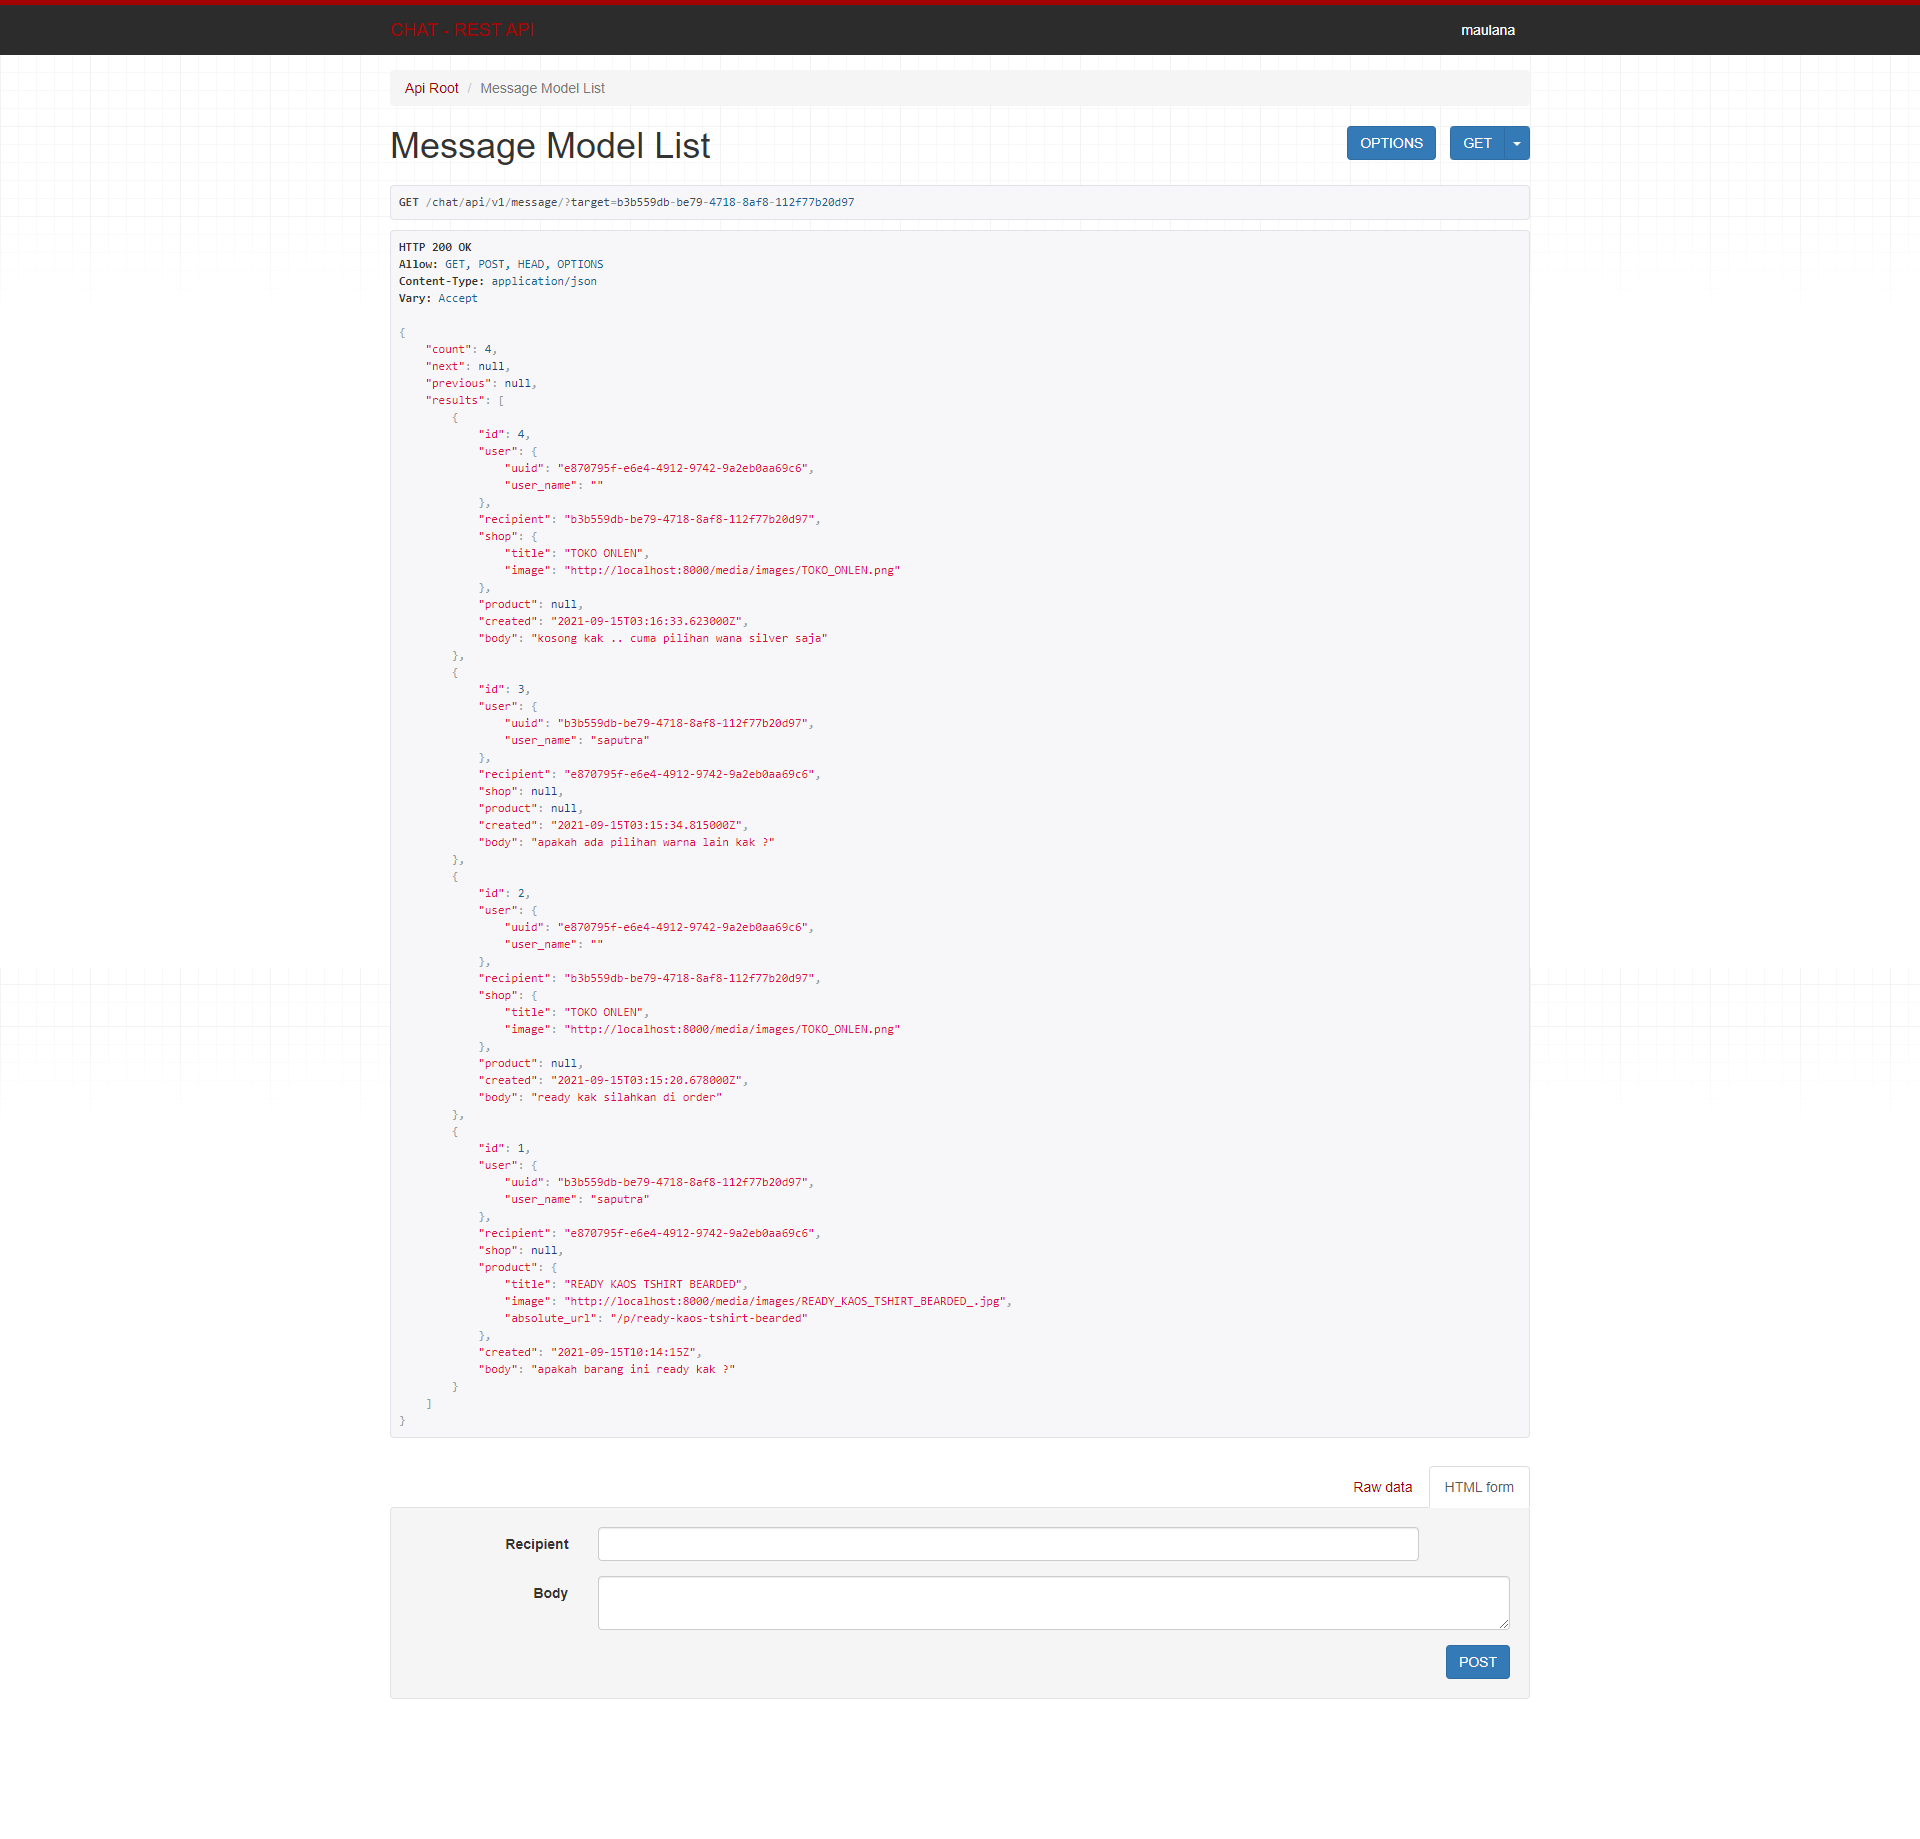
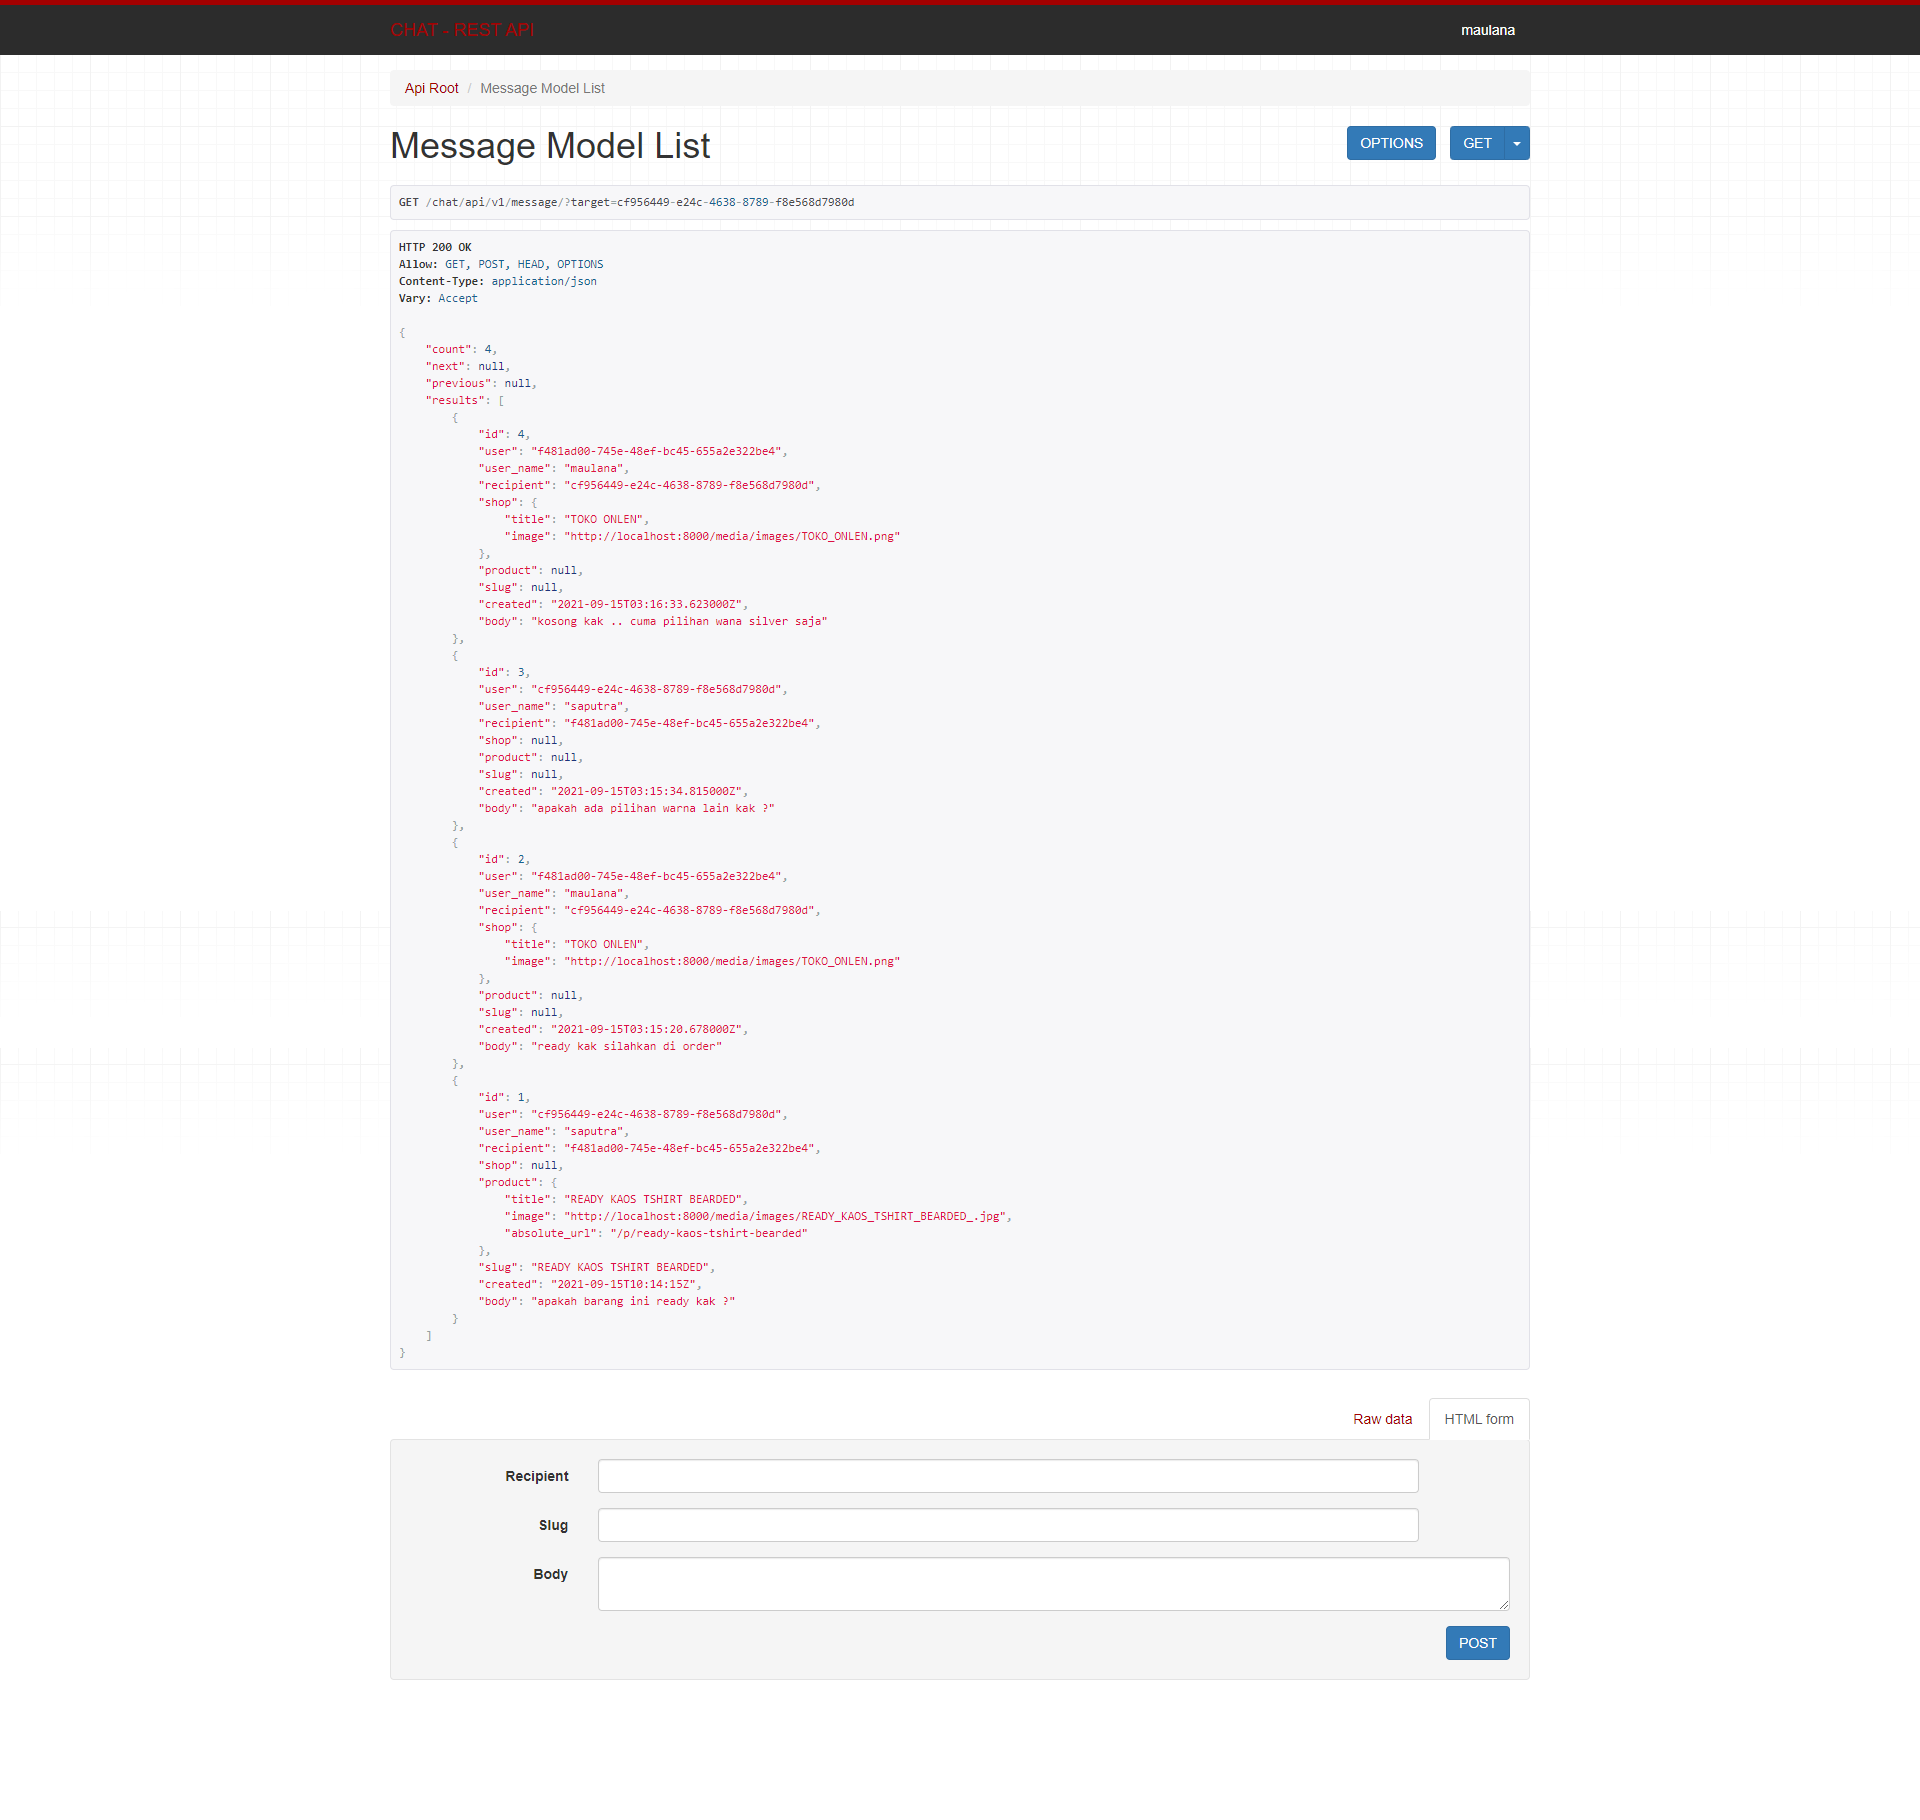
update for add slug in chat request

diff --git a/static/js/chat-home.js b/static/js/chat-home.js
@@ -7,11 +7,11 @@ function drawMessage(message) {
     let position = 'left';
     const date = new Date(message.created);
     
-    if (message.user.uuid === currentUser) position = 'right';
+    if (message.user === currentUser) position = 'right';
     
     const messageItem = `
         <li class="message ${position}">`
-            + ( message.shop ? `<div class="avatar" style="background-image: url('${message.shop.image}'); background-size: cover;"></div>` : `<div class="avatar">${message.user.user_name}</div>`) +
+            + ( message.shop ? `<div class="avatar" style="background-image: url('${message.shop.image}'); background-size: cover;"></div>` : `<div class="avatar">${message.user_name}</div>`) +
                 `<div class="text_wrapper">
                     <div class="text">
                         ${message.body}<br><span class="small">${date}</span>
@@ -26,7 +26,7 @@ function drawMessage(message) {
         
         const messageItem = `
             <li class="message ${position}">`
-                + ( message.shop ? `<div class="avatar" style="background-image: url('${message.shop.image}'); background-size: cover;"></div>` : `<div class="avatar">${message.user.user_name}</div>`) +
+                + ( message.shop ? `<div class="avatar" style="background-image: url('${message.shop.image}'); background-size: cover;"></div>` : `<div class="avatar">${message.user_name}</div>`) +
                     `<div class="text_wrapper" style="font-size: 10pt;">
                         <div class="row">
                             <div class="col-md-3 col-lg-3">
@@ -76,7 +76,8 @@ function getMessageById(message) {
 function sendMessage(recipient, body) {
     $.post('/chat/api/v1/message/', {
         recipient: recipient,
-        body: body
+        body: body,
+        slug: '',
     }).done(function () {
         console.log('success send');
     }).fail(function () {

diff --git a/templates/store/products/detail.html b/templates/store/products/detail.html
@@ -157,6 +157,22 @@
                             <ul id="messages" class="messages">
                             </ul>
                         </div>
+                        <div class="chat-message-product" id="chat-message-product">
+                            <input type="hidden" id="product" value="{{ product.slug }}">
+                            <div class="row">
+                                <div class="col-3">
+                                    <div style="background-image: url('/media/{{product.image}}'); background-size: cover; height: 70px; width: 70px; padding: 10px;"></div>
+                                </div>
+                                <div class="col-9">
+                                    <div style="padding-right: 30px; overflow: hidden; line-height: 1.5; height: 40px;">{{ product.title }}</div>
+                                    <div style="position: absolute; top: 10px; right: 10px;">
+                                        <button type="button" class="close" aria-label="Close" onclick="closeProduct()">
+                                            <span aria-hidden="true">&times;</span>
+                                        </button>
+                                    </div>
+                                </div>
+                            </div>
+                        </div>
                         <div class="chat-message-board">
                             <input placeholder="Tulis pesan..." style="width: 100%; border: 1px solid #e5e7e9 !important; border-radius: 20px !important;" id="chat-input">
                         </div>

diff --git a/static/js/store-products-detail.js b/static/js/store-products-detail.js
@@ -22,7 +22,7 @@ function drawMessage(message) {
     let position = 'left';
     const date = new Date(message.created);
     
-    if (message.user.uuid === currentUser) position = 'right';
+    if (message.user === currentUser) position = 'right';
     
     const messageItem = `
         <li class="message ${position}">
@@ -84,12 +84,14 @@ function getMessageById(message) {
 function sendMessage(body) {
     $.post('/chat/api/v1/message/', {
         recipient: currentRecipient,
-        body: body
+        body: body,
+        slug: document.getElementById('product') != null ? document.getElementById('product').value : '',
     }).done(function () {
         console.log('success send');
     }).fail(function () {
         alert('Error! Check console!');
     });
+    if (document.getElementById('product') != null) closeProduct()
 }
 
 function openChat() {
@@ -99,6 +101,10 @@ function openChat() {
 
 function closeChat() {
     document.getElementById("chat-box").style.display = 'none'
+}
+
+function closeProduct() {
+    document.getElementById("chat-message-product").remove()
 }
 
 $(document).ready(function () {

diff --git a/static/css/style.css b/static/css/style.css
@@ -121,6 +121,7 @@
     font-weight: bold;
     padding: 5px 10px;
     cursor: pointer;
+    background-color: #ffffff;
 }
 
 .chat-box {
@@ -180,7 +181,13 @@
 
 .chat-box .chat-message .chat-message-board {
     display: flex;
-    box-shadow: rgb(0 0 0 / 8%) 0px -1px 2px 0px;
-    padding: 10px 16px;
+    padding: 10px 0px;
     align-items: flex-end;
+}
+
+.chat-box .chat-message .chat-message-product {
+    padding: 10px 35px;
+    background-color: #ece6e6;
+    position: absolute;
+    bottom: 40px;
 }

diff --git a/chat/serializers.py b/chat/serializers.py
@@ -6,16 +6,6 @@ from chat.models import Message
 from account.models import UserBase, Shop
 from store.models import Product
 
-class AccountModelSerializer(ModelSerializer):
-    user_name = SerializerMethodField()
-    
-    class Meta:
-        model = UserBase
-        fields = ('uuid', 'user_name')
-    
-    def get_user_name(self, obj):
-        return obj.user_name if hasattr(obj, 'shop') == False else "" 
-
 class ShopModelSerializer(ModelSerializer):
     class Meta:
         model = Shop
@@ -30,15 +20,20 @@ class ProductModelSerializer(ModelSerializer):
 
 class MessageModelSerializer(ModelSerializer):
     recipient = CharField(source='recipient.uuid')
-    user = AccountModelSerializer(read_only=True)
+    slug = CharField(source='product', allow_blank=True)
+    
+    user = CharField(source='user.uuid', read_only=True)
+    user_name = CharField(source='user.user_name', read_only=True)
+    
     shop = ShopModelSerializer(source='user.shop', read_only=True)
     product = ProductModelSerializer(read_only=True)
-
+    
     def create(self, validated_data):
         user = self.context['request'].user
         recipient = get_object_or_404(UserBase, uuid=validated_data['recipient']['uuid'])
+        product = None if not validated_data['product'] else get_object_or_404(Product, slug=validated_data['product'])
         
-        msg = Message(recipient=recipient, body=validated_data['body'], user=user)
+        msg = Message(recipient=recipient, body=validated_data['body'], user=user, product=product)
         
         msg.save()
         
@@ -46,7 +41,7 @@ class MessageModelSerializer(ModelSerializer):
 
     class Meta:
         model = Message
-        fields = ('id', 'user', 'recipient', 'shop', 'product', 'created', 'body')
+        fields = ('id', 'user', 'user_name', 'recipient', 'shop', 'product', 'slug', 'created', 'body')
 
 
 class UserModelSerializer(ModelSerializer):
